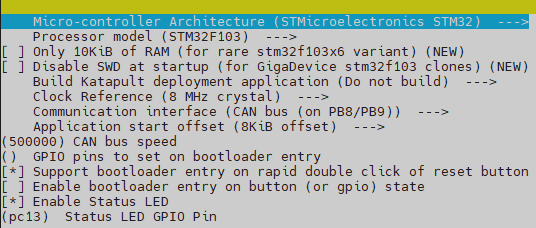
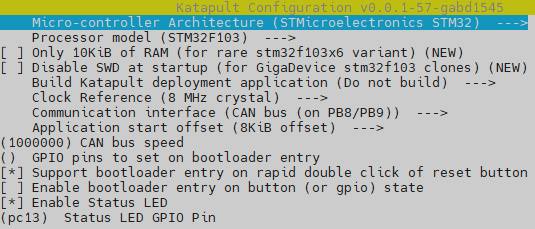
update CAN speed to 1M on updated pages

diff --git a/_includes/custom/katapult/compile.html b/_includes/custom/katapult/compile.html
@@ -59,6 +59,10 @@ Katapult allows you to update your {{page.board_type}} via {{page.firmware}}, so
   make menuconfig KCONFIG_CONFIG=config.{{page.kconfig_name}}
   ```
 
+{% if {{page.firmware}} == "CANbus" %}
+{% include important.html content="As of FlyOS v3.1, the default CAN speed is 1000000. These instructions have been updated to reflect that speed as default. <br/> Your host system may be set up for a different default CAN speed. Use `nano /etc/network/interfaces.d/can0` to check the speed" %}
+{% endif %}
+
 {% if {{page.mcu}} == "rp2040" and {{page.firmware}} == "CANbus" and {{page.enable_status}} != "[&nbsp;]" %}
 - Set the following settings
   - Micro-controller Architecture {{page.architecture}}

diff --git a/_includes/custom/klipper/menuconfig.html b/_includes/custom/klipper/menuconfig.html
@@ -32,6 +32,10 @@ make clean KCONFIG_CONFIG=config.{{page.kconfig_name}}
 make menuconfig KCONFIG_CONFIG=config.{{page.kconfig_name}}
   ```
 
+{% if {{page.firmware}} == "CANbus" %}
+{% include important.html content="As of FlyOS v3.1, the default CAN speed is 1000000. These instructions have been updated to reflect that speed as default. <br/> Your host system may be set up for a different default CAN speed. Use `nano /etc/network/interfaces.d/can0` to check the speed" %}
+{% endif %}
+
 {% if {{page.mcu}} == "rp2040" and {{page.firmware}} == "CANbus" and {{page.bootloader_offset}} != "(No bootloader)" %}
 - Set the following settings
   - {{page.low_level}} Enable extra low-level configuration options

diff --git a/pages/mydoc/fly_can/fly_ercf_easy_v1.1/fly_ercf_v1.1_canboot_can.md b/pages/mydoc/fly_can/fly_ercf_easy_v1.1/fly_ercf_v1.1_canboot_can.md
@@ -2,7 +2,7 @@
 title: Katapult Configuration for the Fly-ERCF-Easy-BRD-V1.1 on CANbus
 tags: []
 keywords: 
-last_updated: 22/08/2023
+last_updated: 04/09/2023
 summary: "How to Configure Katapult for CANbus Operation on the Fly-ERCF-Easy-BRD-V1.1"
 sidebar: mydoc_sidebar
 permalink: fly_ercf_v1.1_canboot_can.html
@@ -21,7 +21,7 @@ deployment: "(Do not build)"
 communication: "(CAN bus)"
 can_rx: "(4)"
 can_tx: "(5)"
-can_bus_speed: "(500000)"
+can_bus_speed: "(1000000)"
 gpio_bootloader_set: "()"
 support_bootloader_entry: "[*]"
 enable_bootloader_gpio: "[&nbsp;]"

diff --git a/pages/mydoc/fly_can/fly_ercf_easy_v1.1/fly_ercf_v1.1_klipper_can_updating.md b/pages/mydoc/fly_can/fly_ercf_easy_v1.1/fly_ercf_v1.1_klipper_can_updating.md
@@ -2,7 +2,7 @@
 title: Klipper Configuration for the Fly-ERCF-Easy-BRD-V1.1 on CANbus
 tags: []
 keywords: 
-last_updated: 22/08/2023
+last_updated: 04/09/2023
 summary: "Klipper Configuration for the Fly-ERCF-Easy-BRD-V1.1 on CANbus"
 sidebar: mydoc_sidebar
 permalink: fly_ercf_v1.1_klipper_can_updating.html
@@ -21,7 +21,7 @@ bootloader_offset: "(16KiB bootloader)"
 communication: "(CAN bus)"
 can_rx: "(4)"
 can_tx: "(5)"
-can_bus_speed: "(500000)"
+can_bus_speed: "(1000000)"
 gpio_startup: "(gpio24)"
 board_type: "toolboard"
 klipper_file: "klipper.uf2"

diff --git a/pages/mydoc/fly_boards/fly-e3_v2/fly_e2_v2_canboot_can.md b/pages/mydoc/fly_boards/fly-e3_v2/fly_e2_v2_canboot_can.md
@@ -2,7 +2,7 @@
 title: Fly-E3-v2 CanBoot bootloader for CAN bus
 tags: []
 keywords: 
-last_updated: 10/07/2023
+last_updated: 04/09/2023
 summary: "Fly-E3-v2 CanBoot bootloader for CAN bus"
 sidebar: mydoc_sidebar
 permalink: fly_e3_v2_canboot_can.html
@@ -22,7 +22,7 @@ deployment: "(32KiB bootloader)"
 clock: "(8 MHz crystal)"
 communication: "(CAN bus (on PB8/PB9))"
 application_offset: "(32KiB offset)"
-can_bus_speed: "(500000)"
+can_bus_speed: "(1000000)"
 gpio_bootloader_set: "()"
 support_bootloader_entry: "[*]"
 enable_bootloader_gpio: "[&nbsp;]"

diff --git a/pages/mydoc/fly_can/fly-sb2040_v1/fly_sb2040_v1_canboot_can.md b/pages/mydoc/fly_can/fly-sb2040_v1/fly_sb2040_v1_canboot_can.md
@@ -2,7 +2,7 @@
 title: Katapult Configuration for the Fly-SB2040-V1 on CANbus
 tags: []
 keywords: 
-last_updated: 13/08/2023
+last_updated: 04/09/2023
 summary: "How to Configure Katapult for CANbus Operation on the Fly-SB2040-V1"
 sidebar: mydoc_sidebar
 permalink: fly_sb2040_v1_canboot_can.html
@@ -21,7 +21,7 @@ deployment: "(Do not build)"
 communication: "(CAN bus)"
 can_rx: "(4)"
 can_tx: "(5)"
-can_bus_speed: "(500000)"
+can_bus_speed: "(1000000)"
 gpio_bootloader_set: "()"
 support_bootloader_entry: "[*]"
 enable_bootloader_gpio: "[&nbsp;]"

diff --git a/pages/mydoc/fly_can/fly-sb2040_v2/fly_sb2040_v2_canboot_can.md b/pages/mydoc/fly_can/fly-sb2040_v2/fly_sb2040_v2_canboot_can.md
@@ -2,7 +2,7 @@
 title: Katapult Configuration for the Fly-SB2040-V2 on CANbus
 tags: []
 keywords: 
-last_updated: 17/08/2023
+last_updated: 04/09/2023
 summary: "How to Configure Katapult for CANbus Operation on the Fly-SB2040-V2"
 sidebar: mydoc_sidebar
 permalink: fly_sb2040_v2_canboot_can.html
@@ -21,7 +21,7 @@ deployment: "(Do not build)"
 communication: "(CAN bus)"
 can_rx: "(4)"
 can_tx: "(5)"
-can_bus_speed: "(500000)"
+can_bus_speed: "(1000000)"
 gpio_bootloader_set: "()"
 support_bootloader_entry: "[*]"
 enable_bootloader_gpio: "[&nbsp;]"

diff --git a/pages/mydoc/fly_can/fly_ercf_easy_v1.1/fly_ercf_v1.1_klipper_can.md b/pages/mydoc/fly_can/fly_ercf_easy_v1.1/fly_ercf_v1.1_klipper_can.md
@@ -2,7 +2,7 @@
 title: Klipper Configuration for the Fly-ERCF-Easy-BRD-V1.1 on CANbus
 tags: []
 keywords: 
-last_updated: 22/08/2023
+last_updated: 04/09/2023
 summary: "Klipper Configuration for the Fly-ERCF-Easy-BRD-V1.1 on CANbus"
 sidebar: mydoc_sidebar
 permalink: fly_ercf_v1.1_klipper_can.html
@@ -21,7 +21,7 @@ bootloader_offset: "(16KiB bootloader)"
 communication: "(CAN bus)"
 can_rx: "(4)"
 can_tx: "(5)"
-can_bus_speed: "(500000)"
+can_bus_speed: "(1000000)"
 gpio_startup: "(gpio17)"
 board_type: "toolboard"
 klipper_file: "klipper.uf2"

diff --git a/pages/mydoc/fly_can/fly-sb2040_v1/fly_sb2040_v1_klipper_can_updating.md b/pages/mydoc/fly_can/fly-sb2040_v1/fly_sb2040_v1_klipper_can_updating.md
@@ -2,7 +2,7 @@
 title: Klipper Configuration for the Fly-SB2040-V1 on CANbus
 tags: []
 keywords: 
-last_updated: 20/10/2022
+last_updated: 04/09/2023
 summary: "Klipper Configuration for the Fly-SB2040-V1 on CANbus"
 sidebar: mydoc_sidebar
 permalink: fly_sb2040_v1_klipper_can_updating.html
@@ -21,7 +21,7 @@ bootloader_offset: "(16KiB bootloader)"
 communication: "(CAN bus)"
 can_rx: "(4)"
 can_tx: "(5)"
-can_bus_speed: "(500000)"
+can_bus_speed: "(1000000)"
 gpio_startup: "(gpio24)"
 board_type: "toolboard"
 klipper_file: "klipper.uf2"

diff --git a/pages/mydoc/fly_can/fly-sb2040_v2/fly_sb2040_v2_klipper_can_updating.md b/pages/mydoc/fly_can/fly-sb2040_v2/fly_sb2040_v2_klipper_can_updating.md
@@ -2,7 +2,7 @@
 title: Klipper Configuration for the Fly-SB2040-V2 on CANbus
 tags: []
 keywords: 
-last_updated: 17/08/2023
+last_updated: 04/09/2023
 summary: "Klipper Configuration for the Fly-SB2040-V2 on CANbus"
 sidebar: mydoc_sidebar
 permalink: fly_sb2040_v2_klipper_can_updating.html
@@ -21,7 +21,7 @@ bootloader_offset: "(16KiB bootloader)"
 communication: "(CAN bus)"
 can_rx: "(4)"
 can_tx: "(5)"
-can_bus_speed: "(500000)"
+can_bus_speed: "(1000000)"
 gpio_startup: "(gpio24)"
 board_type: "toolboard"
 klipper_file: "klipper.uf2"

diff --git a/pages/mydoc/fly_can/fly-sb2040_v1/fly_sb2040_v1_klipper_can.md b/pages/mydoc/fly_can/fly-sb2040_v1/fly_sb2040_v1_klipper_can.md
@@ -2,7 +2,7 @@
 title: Klipper Configuration for the Fly-SB2040-V1 on CANbus
 tags: []
 keywords: 
-last_updated: 20/10/2022
+last_updated: 04/09/2023
 summary: "Klipper Configuration for the Fly-SB2040-V1 on CANbus"
 sidebar: mydoc_sidebar
 permalink: fly_sb2040_v1_klipper_can.html
@@ -21,7 +21,7 @@ bootloader_offset: "(16KiB bootloader)"
 communication: "(CAN bus)"
 can_rx: "(4)"
 can_tx: "(5)"
-can_bus_speed: "(500000)"
+can_bus_speed: "(1000000)"
 gpio_startup: "(gpio24)"
 board_type: "toolboard"
 klipper_file: "klipper.uf2"

diff --git a/pages/mydoc/fly_can/fly-sb2040_v2/fly_sb2040_v2_klipper_can.md b/pages/mydoc/fly_can/fly-sb2040_v2/fly_sb2040_v2_klipper_can.md
@@ -2,7 +2,7 @@
 title: Klipper Configuration for the Fly-SB2040-V2 on CANbus
 tags: []
 keywords: 
-last_updated: 17/08/2023
+last_updated: 04/09/2023
 summary: "Klipper Configuration for the Fly-SB2040-V2 on CANbus"
 sidebar: mydoc_sidebar
 permalink: fly_sb2040_v2_klipper_can.html
@@ -21,7 +21,7 @@ bootloader_offset: "(16KiB bootloader)"
 communication: "(CAN bus)"
 can_rx: "(4)"
 can_tx: "(5)"
-can_bus_speed: "(500000)"
+can_bus_speed: "(1000000)"
 gpio_startup: "(gpio24)"
 board_type: "toolboard"
 klipper_file: "klipper.uf2"
